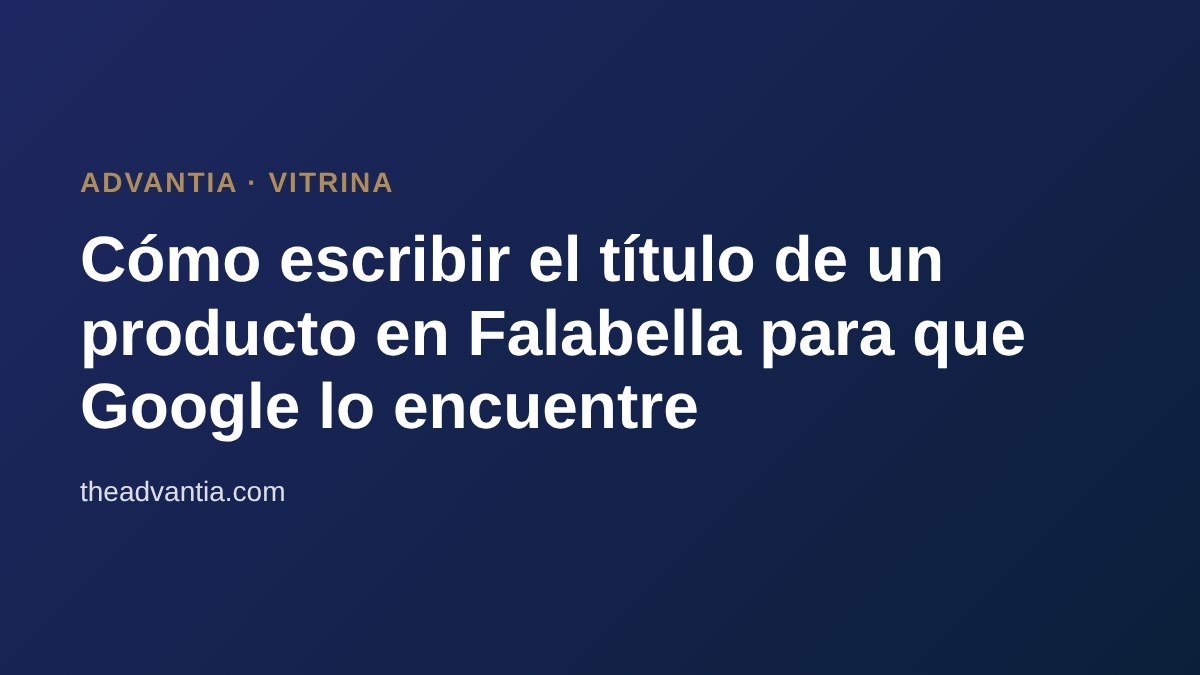
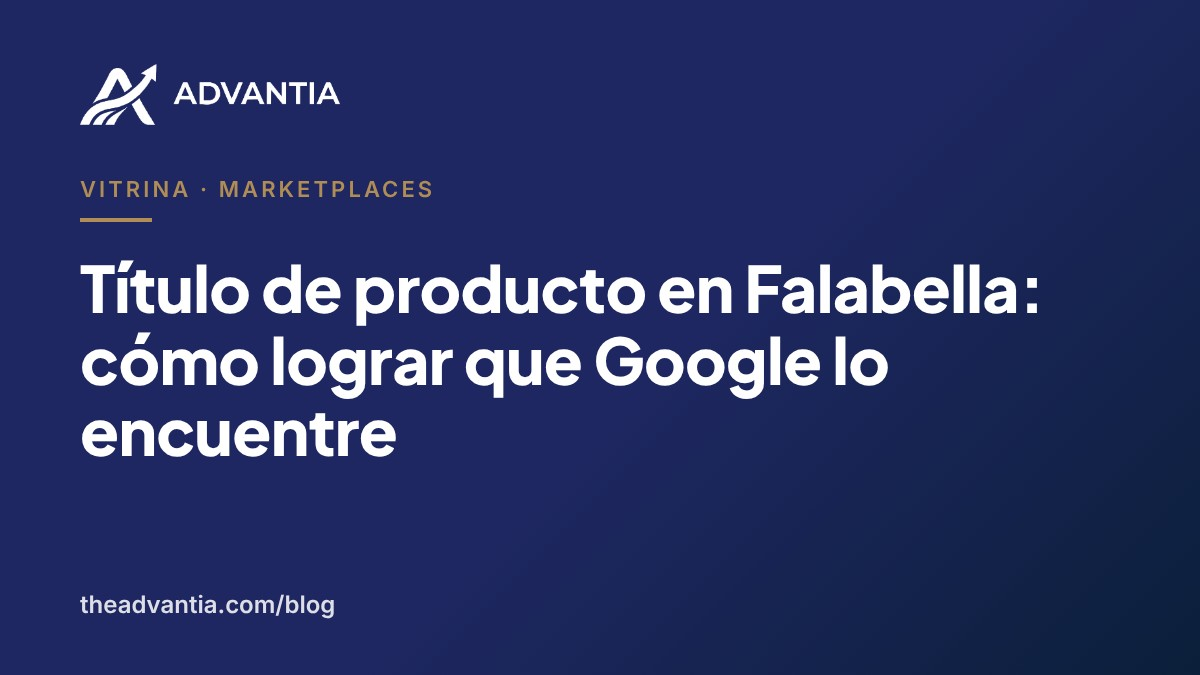
Artículo W48: fecha de publicación, imagen social de marca y post sin ganchos alternativos
Claude-Session: https://claude.ai/code/session_01LoAedUNrshmTgRsHGxeXsA

diff --git a/contenido/posts/2026-W48-2.md b/contenido/posts/2026-W48-2.md
@@ -31,8 +31,3 @@ En el artículo te explicamos la estructura paso a paso, los errores que más ve
 https://theadvantia.com/blog/titulo-producto-falabella-google
 
 #Marketplaces #SEO #EcommerceColombia
-
-<!-- ganchos alternativos:
-1. Si tu título dice lo que dice tu catálogo, Google no sabe que tu producto es lo que alguien busca.
-2. 120 caracteres: lo único que Google y el comprador leen de tu ficha en Falabella.
--->
